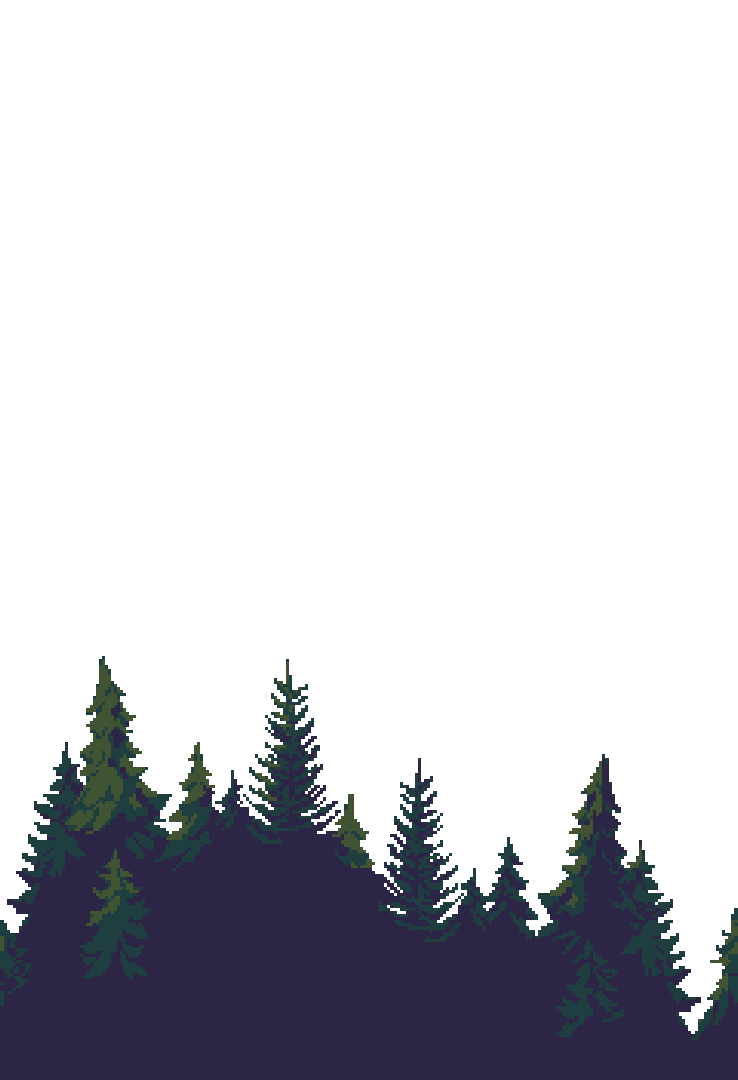
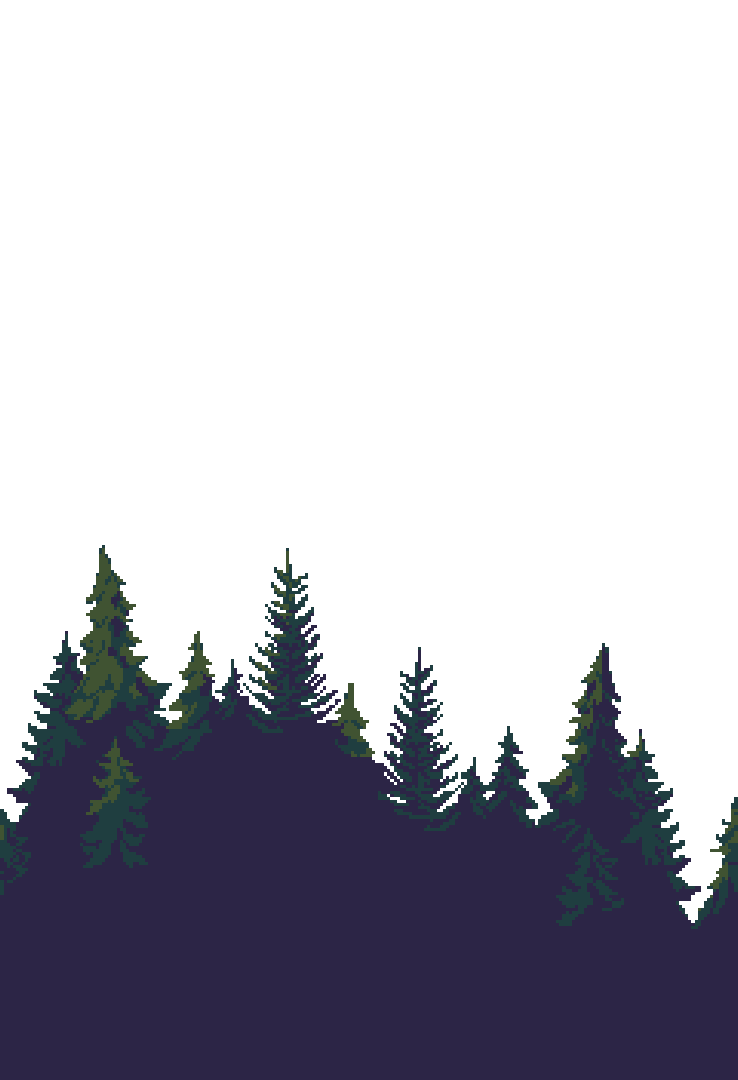
fixing parallax background

Changed region(s): [[0.0, 0.4889, 1.0, 0.9778]]

diff --git a/Scene/PlayScene.cpp b/Scene/PlayScene.cpp
@@ -60,10 +60,11 @@ void PlayScene::Initialize() {
         "Resource/images/play-scene/mountains/mountains.png",
         "Resource/images/play-scene/mountains/tree.png"
     };
-    std::vector<float> factors = {0.2f, 0.5f};
+    std::vector<float> factors = {0.1f, 0.25f};
     MountainSceneBg.Initialize(layers, factors);
-    MountainSceneBg.SetLayerOffset(0, 80, 20);   // mountains shifted right/down
-    MountainSceneBg.SetLayerOffset(1, -50, 20 );   // trees shifted left/up
+    MountainSceneBg.SetLayerOffset(0, 0, 30);   // mountains shifted right/down
+    MountainSceneBg.SetLayerOffset(1, 0, 50 );   // trees shifted left/up
+    finishBmp = al_load_bitmap("Resource/images/play-scene/mountains/finish.png");
 
     // Add groups from bottom to top.
     AddNewObject(TileMapGroup = new Group());
@@ -119,6 +120,27 @@ void PlayScene::Draw() const {
 
     // draw parallax behind everything
     MountainSceneBg.Draw(cam);
+    //
+    // float fw = float(al_get_bitmap_width (finishBmp));
+    // float fh = float(al_get_bitmap_height(finishBmp));
+    //
+    // // 1) compute world‐space position
+    // float groundY = MapHeight * BlockSize - BlockSize;
+    // float worldX = MapWidth * BlockSize - fw;
+    // float worldY = groundY - fh;
+    //
+    // // 2) convert to screen‐space
+    // float screenX = worldX - cam.x;
+    // float screenY = worldY - cam.y;
+    //
+    // // 3) only draw if on screen
+    // if (screenX + fw  > 0 &&
+    //     screenX       < w &&
+    //     screenY + fh  > 0 &&
+    //     screenY       < h)
+    // {
+    //     al_draw_bitmap(finishBmp, screenX, screenY, 0);
+    // }
     map.DrawMap(cam);
     player.Draw(cam);
     for (Enemy* e : enemyGroup) {

diff --git a/Engine/ParallaxBackground.cpp b/Engine/ParallaxBackground.cpp
@@ -41,28 +41,35 @@ namespace Engine {
 
     void ParallaxBackground::Draw(const Camera& cam) {
         int screenW = static_cast<int>(cam.width);
-        //int screenH = static_cast<int>(cam.height);
+        int screenH = static_cast<int>(cam.height);
 
         for (size_t i = 0; i < layers.size(); i++) {
             ALLEGRO_BITMAP* bmp = layers[i];
             if (!bmp) continue;
 
             int bw = al_get_bitmap_width(bmp);
-            //int bh = al_get_bitmap_height(bmp);
+            int bh = al_get_bitmap_height(bmp);
             float factor = parallaxFactors[i];
 
             // inside ParallaxBackground::Draw(...)
-            float rawX = cam.x * parallaxFactors[i] + offsetX[i];
+            float rawX = cam.x * factor + offsetX[i];
             float wrapX = std::fmod(rawX, bw);
             if (wrapX < 0) wrapX += bw;
             float ox = -wrapX;
 
-            // if you only want one vertical row:
-            float oy = -cam.y + offsetY[i];
+            float baselineY = 150;     // where the bottom of the bitmap lines up with bottom of screen
+            float camJump   = std::min(cam.y, float(screenH)); // only care when cam.y < 0 (you’ve jumped up)
+            float vertFactor = parallaxFactors[i];
+            float fy         = baselineY - (camJump * vertFactor);
+            float oy        = fy;
 
-            for (float x = ox; x < screenW + bw; x += bw) {
+            std::cout << camJump << std::endl;
+            std::cout << oy << std::endl;
+
+            for (float x = ox; x <= screenW + (2*bw); x += bw) {
                 al_draw_bitmap(bmp, x, oy, 0);
             }
+
         }
     }
 

diff --git a/Scene/PlayScene.hpp b/Scene/PlayScene.hpp
@@ -69,6 +69,7 @@ public:
     std::vector<std::vector<int>> mapDistance;
     std::list<std::pair<int, float>> enemyWaveData;
     std::list<int> keyStrokes;
+    ALLEGRO_BITMAP* finishBmp;
     static Engine::Point GetClientSize();
     explicit PlayScene() = default;
     void Initialize() override;
